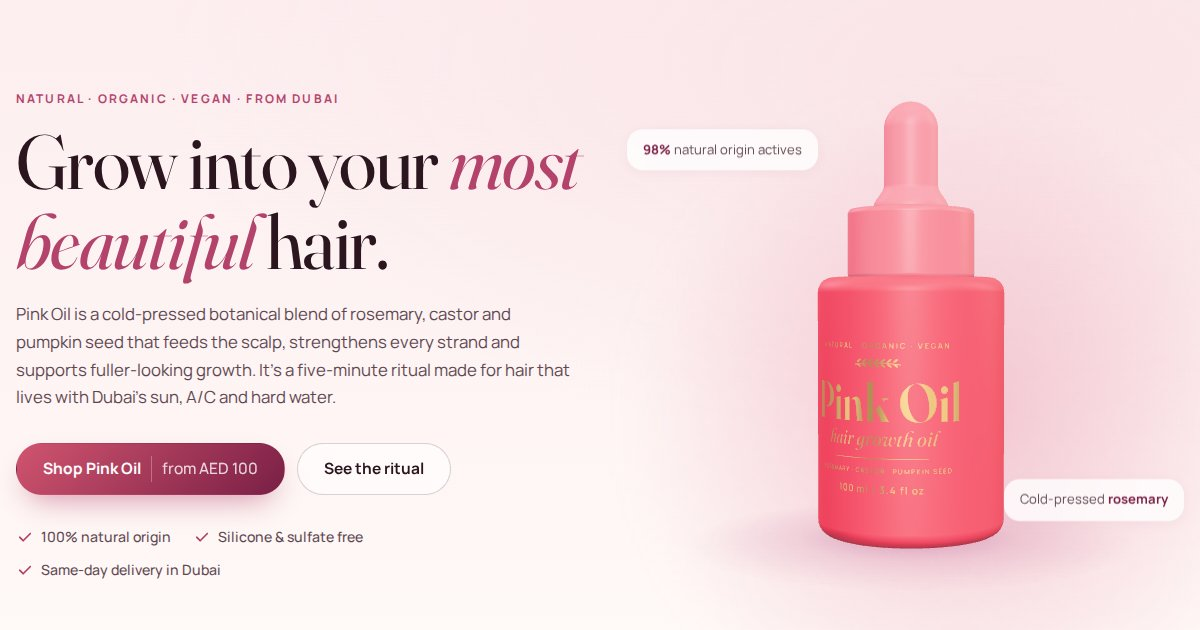
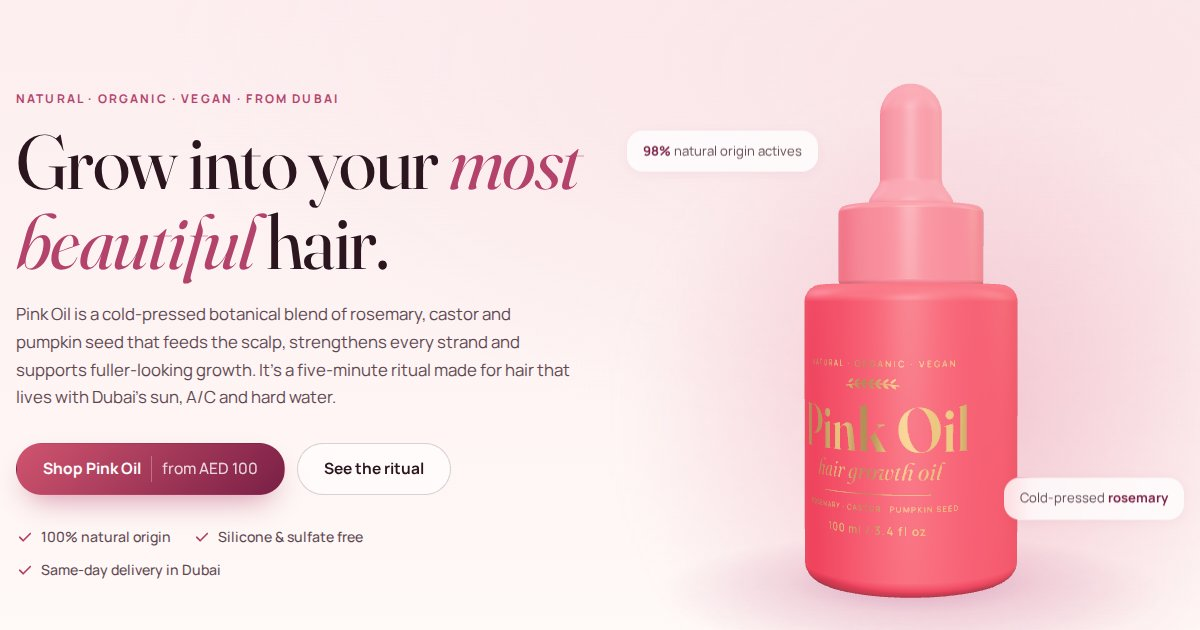
Show the bottle larger, scaled uniformly
- Whole bottle scaled up ~15% with all parts in proportion; camera re-centred
- Move the drag hint to the corner (below the bottle on phones) so it
  never covers the base
- Re-render product photo and social image

Claude-Session: https://claude.ai/code/session_01DFs3jtfENwvkuyvkvMviti

Changed region(s): [[0.6475, 0.1206, 0.9867, 0.9952], [0.5242, 0.2111, 0.6475, 0.2413]]

diff --git a/src/css/styles.css b/src/css/styles.css
@@ -127,7 +127,7 @@ button { cursor: pointer; }
 .stage.is-ready .stage__canvas { opacity: 1; }
 .stage__poster { position: absolute; inset: 12% 22%; width: 56%; height: 76%; transition: opacity 0.6s, transform 0.6s var(--ease); animation: float 6s ease-in-out infinite; }
 .stage.is-ready .stage__poster { opacity: 0; transform: scale(0.96); pointer-events: none; }
-.stage__hint { position: absolute; left: 50%; bottom: 4%; transform: translateX(-50%); margin: 0; display: inline-flex; align-items: center; gap: 8px; padding: 7px 14px; border-radius: 999px; background: rgba(255, 255, 255, 0.7); backdrop-filter: blur(8px); font-size: 0.78rem; font-weight: 600; color: var(--ink-soft); opacity: 0; transition: opacity 0.6s 0.6s; pointer-events: none; white-space: nowrap; }
+.stage__hint { position: absolute; inset-inline-start: 4%; bottom: 4%; margin: 0; display: inline-flex; align-items: center; gap: 8px; padding: 7px 14px; border-radius: 999px; background: rgba(255, 255, 255, 0.7); backdrop-filter: blur(8px); font-size: 0.78rem; font-weight: 600; color: var(--ink-soft); opacity: 0; transition: opacity 0.6s 0.6s; pointer-events: none; white-space: nowrap; }
 .stage__hint svg { width: 16px; height: 16px; fill: none; stroke: currentColor; stroke-width: 2; stroke-linecap: round; stroke-linejoin: round; }
 .stage.is-ready .stage__hint { opacity: 1; }
 .stage.has-interacted .stage__hint { opacity: 0; transition-delay: 0s; }
@@ -387,11 +387,11 @@ button { cursor: pointer; }
   .hero__grid { text-align: center; }
   .hero__copy .lead { margin-inline: auto; }
   .hero__cta, .hero__trust { justify-content: center; }
-  .stage--hero { order: -1; max-width: 420px; margin: 0 auto -12px; aspect-ratio: 1 / 0.95; }
+  .stage--hero { order: -1; max-width: 420px; margin: 0 auto 36px; aspect-ratio: 1 / 0.95; }
   .stage__chip--a { inset-inline-start: 0; top: 10%; }
   /* Keep the bottle's gold print clear on small screens. */
   .stage__chip--b { display: none; }
-  .stage--hero .stage__hint { bottom: -3%; }
+  .stage--hero .stage__hint { bottom: -9%; left: 50%; right: auto; transform: translateX(-50%); }
   .ritual .section__head { position: static; }
   .ingredients__list { flex-direction: row; overflow-x: auto; scrollbar-width: none; padding-bottom: 6px; scroll-snap-type: x mandatory; }
   .ingredients__list::-webkit-scrollbar { display: none; }

diff --git a/src/js/bottle3d.js b/src/js/bottle3d.js
@@ -66,7 +66,7 @@ const COLORS = {
 const BODY_H = 2.75;
 const CAP_R = 0.68;
 const CAP_H = 0.75;
-const MODEL_SCALE = 1.05; // full bottle ≈5.1 units tall, filling most of the frame so the print reads clearly
+const MODEL_SCALE = 1.2; // uniform scale: full bottle ≈5.9 units tall, filling most of the frame so the print reads clearly
 
 /** Lathe profile for a cylinder with rounded top and bottom edges. */
 function roundedCylinder(r, h, fillet, y0 = 0, steps = 8) {
@@ -274,8 +274,8 @@ export async function mountBottle(stage, { autoRotate = 0.35, scrollSpin = false
   scene.add(key, rim, fill);
 
   const camera = new PerspectiveCamera(28, 1, 0.1, 100);
-  camera.position.set(0, 2.65, 13);
-  camera.lookAt(0, 2.3, 0);
+  camera.position.set(0, 3.1, 13);
+  camera.lookAt(0, 2.8, 0);
 
   await fontsReady();
 
@@ -287,7 +287,7 @@ export async function mountBottle(stage, { autoRotate = 0.35, scrollSpin = false
   rig.add(a.group, b.group);
 
   const shadow = new Mesh(
-    new PlaneGeometry(5, 5),
+    new PlaneGeometry(5.6, 5.6),
     new MeshBasicMaterial({ map: softShadowTexture(), transparent: true, depthWrite: false }),
   );
   shadow.rotation.x = -Math.PI / 2;
